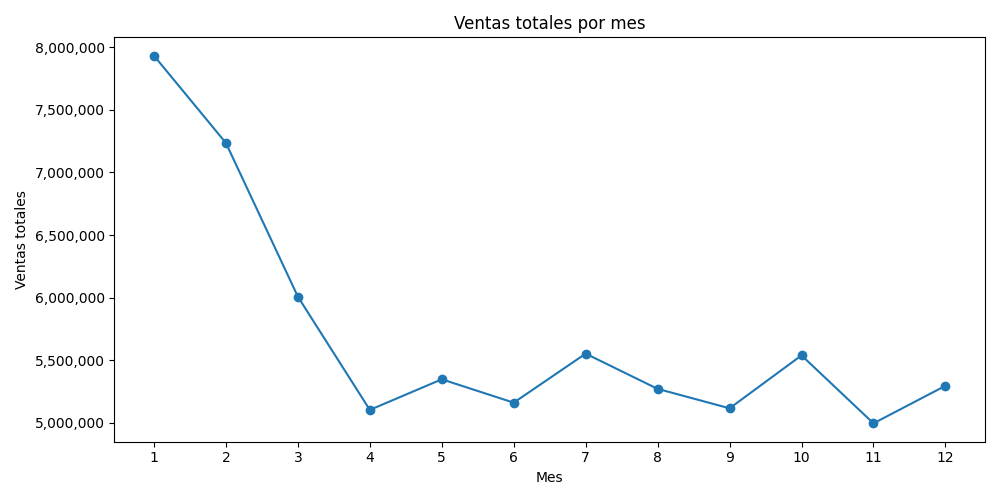
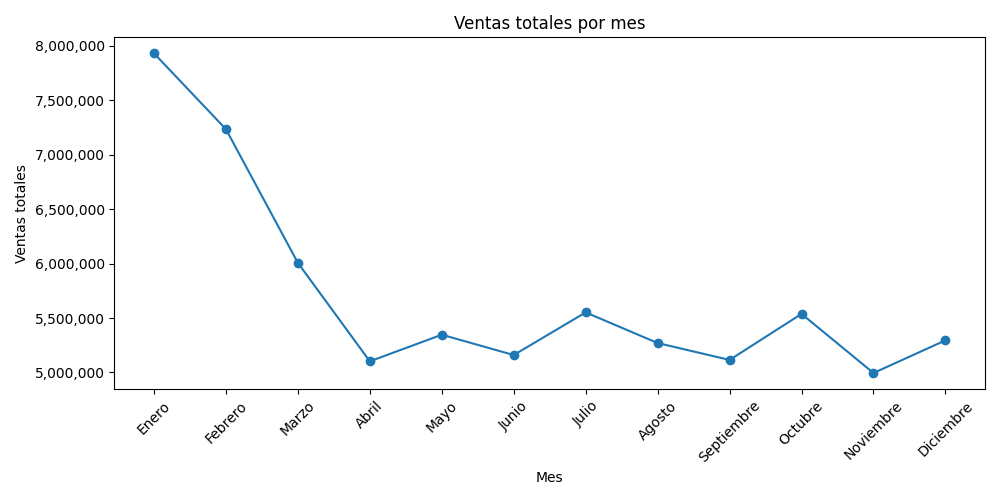
Arreglando grafica ventas por mes

diff --git a/utils/create_graphs.py b/utils/create_graphs.py
@@ -129,7 +129,11 @@ def plot_sales_by_month(db):
   plt.xlabel("Mes")
   plt.ylabel("Ventas totales")
   plt.title("Ventas totales por mes")
-  plt.xticks(range(1, 13))
+  plt.xticks(
+    range(1, 13),
+    ["Enero", "Febrero", "Marzo", "Abril", "Mayo", "Junio", "Julio", "Agosto", "Septiembre", "Octubre", "Noviembre", "Diciembre"],
+    rotation=45
+  )
   plt.ticklabel_format(style="plain", axis="y")
   plt.gca().yaxis.set_major_formatter(plt.FuncFormatter(lambda x, loc: "{:,}".format(int(x))))
   plt.tight_layout()
